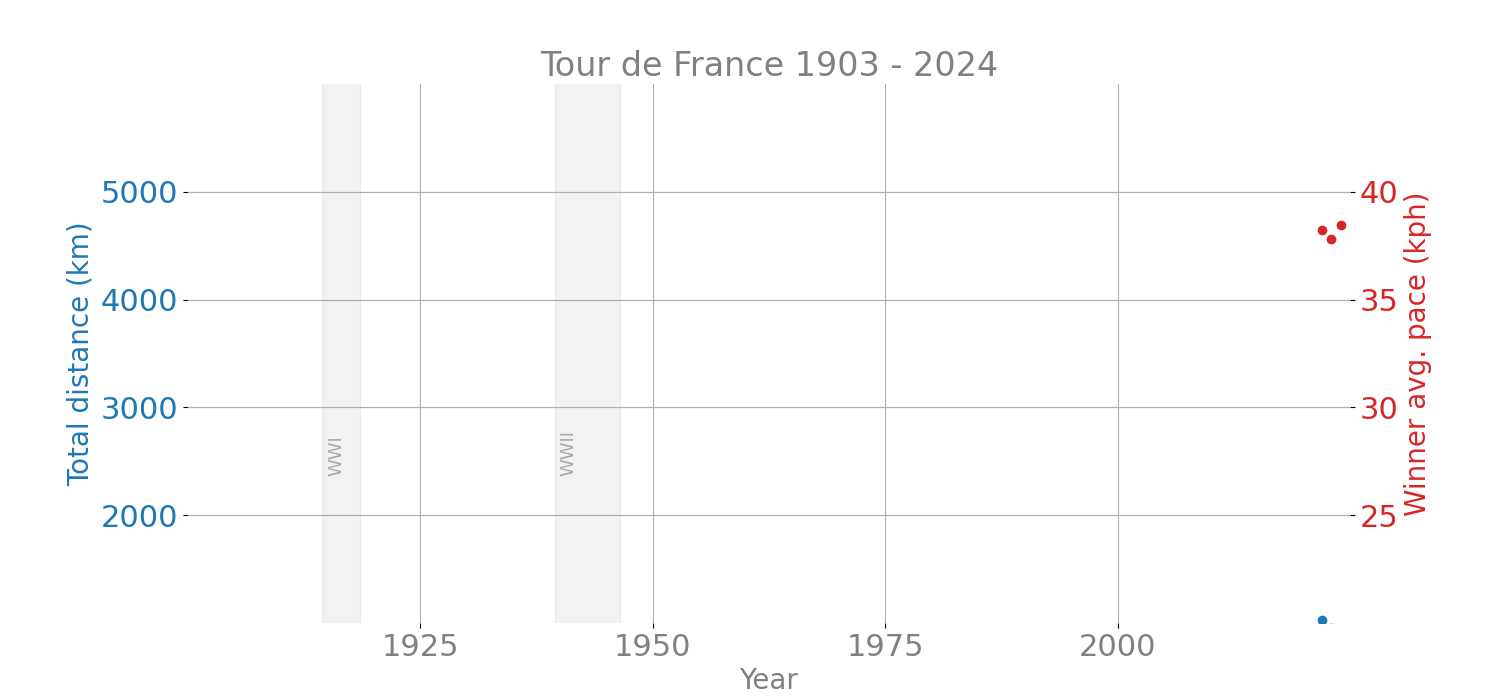
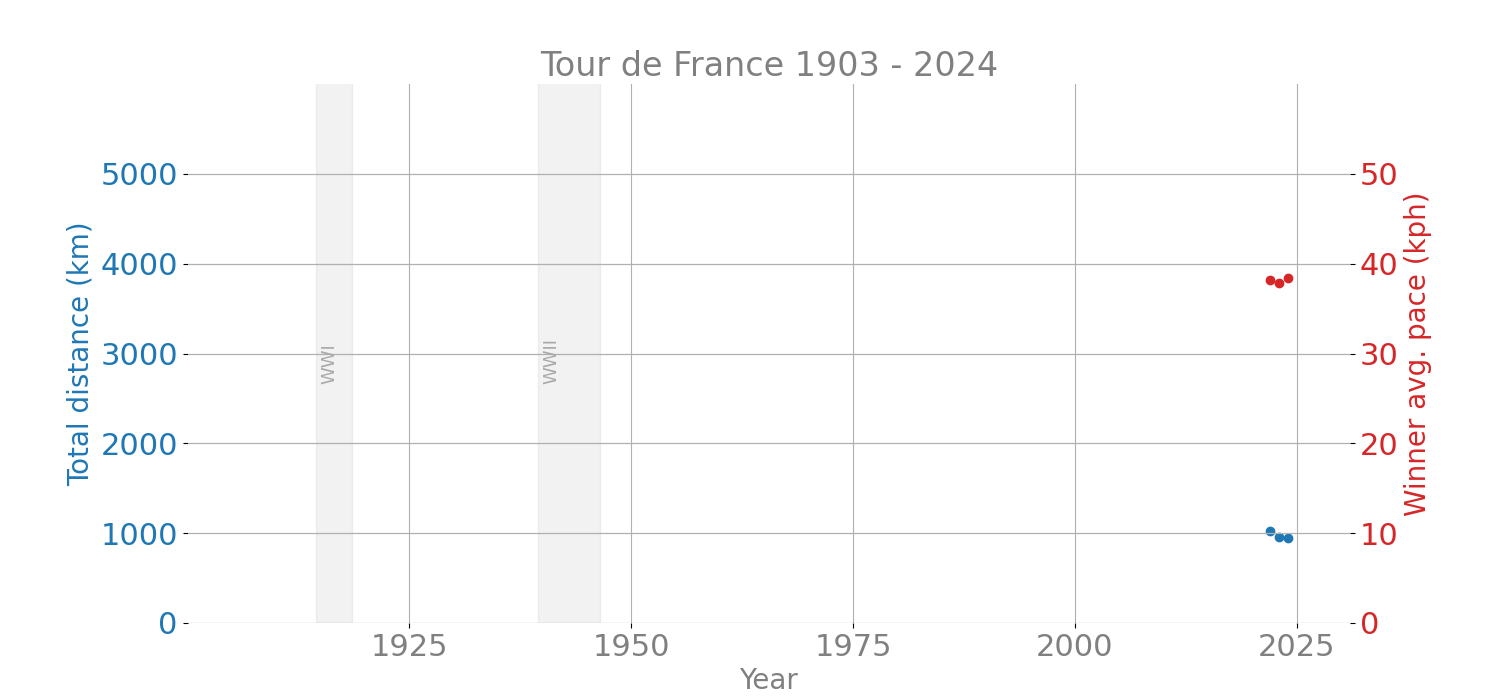
Add plots.

diff --git a/src/letourdataset/visualizer.py b/src/letourdataset/visualizer.py
@@ -9,7 +9,7 @@ class Visualizer:
         pass
 
     def plot(self, df: pd.DataFrame, saveas="data/TDF_Distance_And_Pace.png") -> None:
-        last_year = 2024
+        last_year = 2030
 
         year = np.unique(df["Year"])
         distance = df.groupby("Year")["Distance (km)"].mean(numeric_only=True).values
@@ -21,17 +21,19 @@ class Visualizer:
         _, ax = plt.subplots(1, 1, figsize=(15, 7))
         ax.scatter(year, distance)  # type:ignore
 
-        ax.set_title(f"Tour de France 1903 - {last_year}", fontsize=24, color="gray")
+        ax.set_title(
+            f"Tour de France 1903 - {df['Year'].max()}", fontsize=24, color="gray"
+        )
 
         ax.set_xlabel("Year", fontsize=20, color="gray")
         ax.set_xlim(1900, last_year + 1)
-        ax.set_xticks([1925, 1950, 1975, 2000])
-        ax.set_xticklabels([1925, 1950, 1975, 2000], color="gray")
+        ax.set_xticks([1925, 1950, 1975, 2000, 2025])
+        ax.set_xticklabels([1925, 1950, 1975, 2000, 2025], color="gray")
 
         ax.set_ylabel("Total distance (km)", fontsize=20, color="tab:blue")
-        ax.set_ylim(1000, 6000)
-        ax.set_yticks([2000, 3000, 4000, 5000])
-        ax.set_yticklabels([2000, 3000, 4000, 5000], color="tab:blue")
+        ax.set_ylim(0, 6000)
+        ax.set_yticks([0, 1000, 2000, 3000, 4000, 5000])
+        ax.set_yticklabels([0, 1000, 2000, 3000, 4000, 5000], color="tab:blue")
 
         for where in ["top", "right", "bottom", "left"]:
             ax.spines[where].set_visible(False)
@@ -50,9 +52,9 @@ class Visualizer:
         ax_twinx.set_xlim(1900, last_year + 1)
 
         ax_twinx.set_ylabel("Winner avg. pace (kph)", fontsize=20, color="tab:red")
-        ax_twinx.set_ylim(20, 45)
-        ax_twinx.set_yticks([25, 30, 35, 40])
-        ax_twinx.set_yticklabels([25, 30, 35, 40], color="tab:red")
+        ax_twinx.set_ylim(0, 60)
+        ax_twinx.set_yticks([0, 10, 20, 30, 40, 50])
+        ax_twinx.set_yticklabels([0, 10, 20, 30, 40, 50], color="tab:red")
 
         for where in ["top", "right", "bottom", "left"]:
             ax_twinx.spines[where].set_visible(False)
